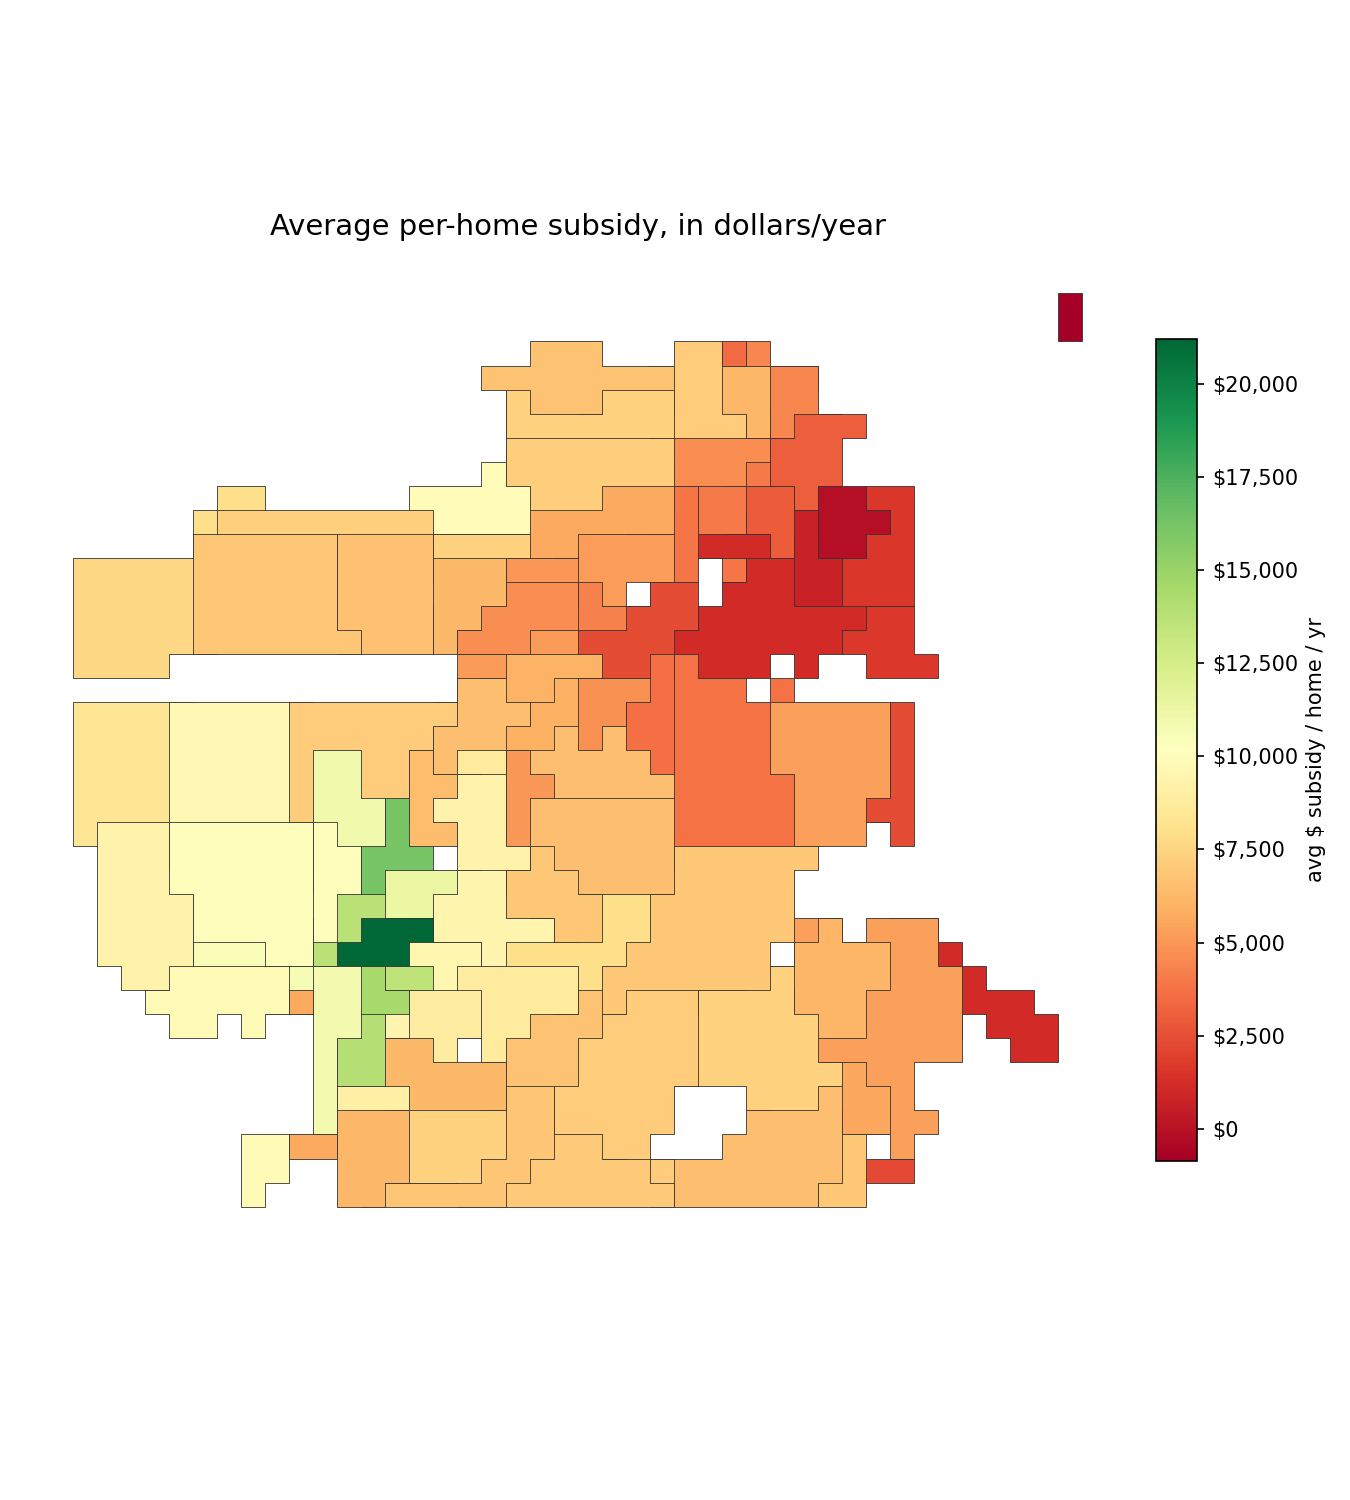
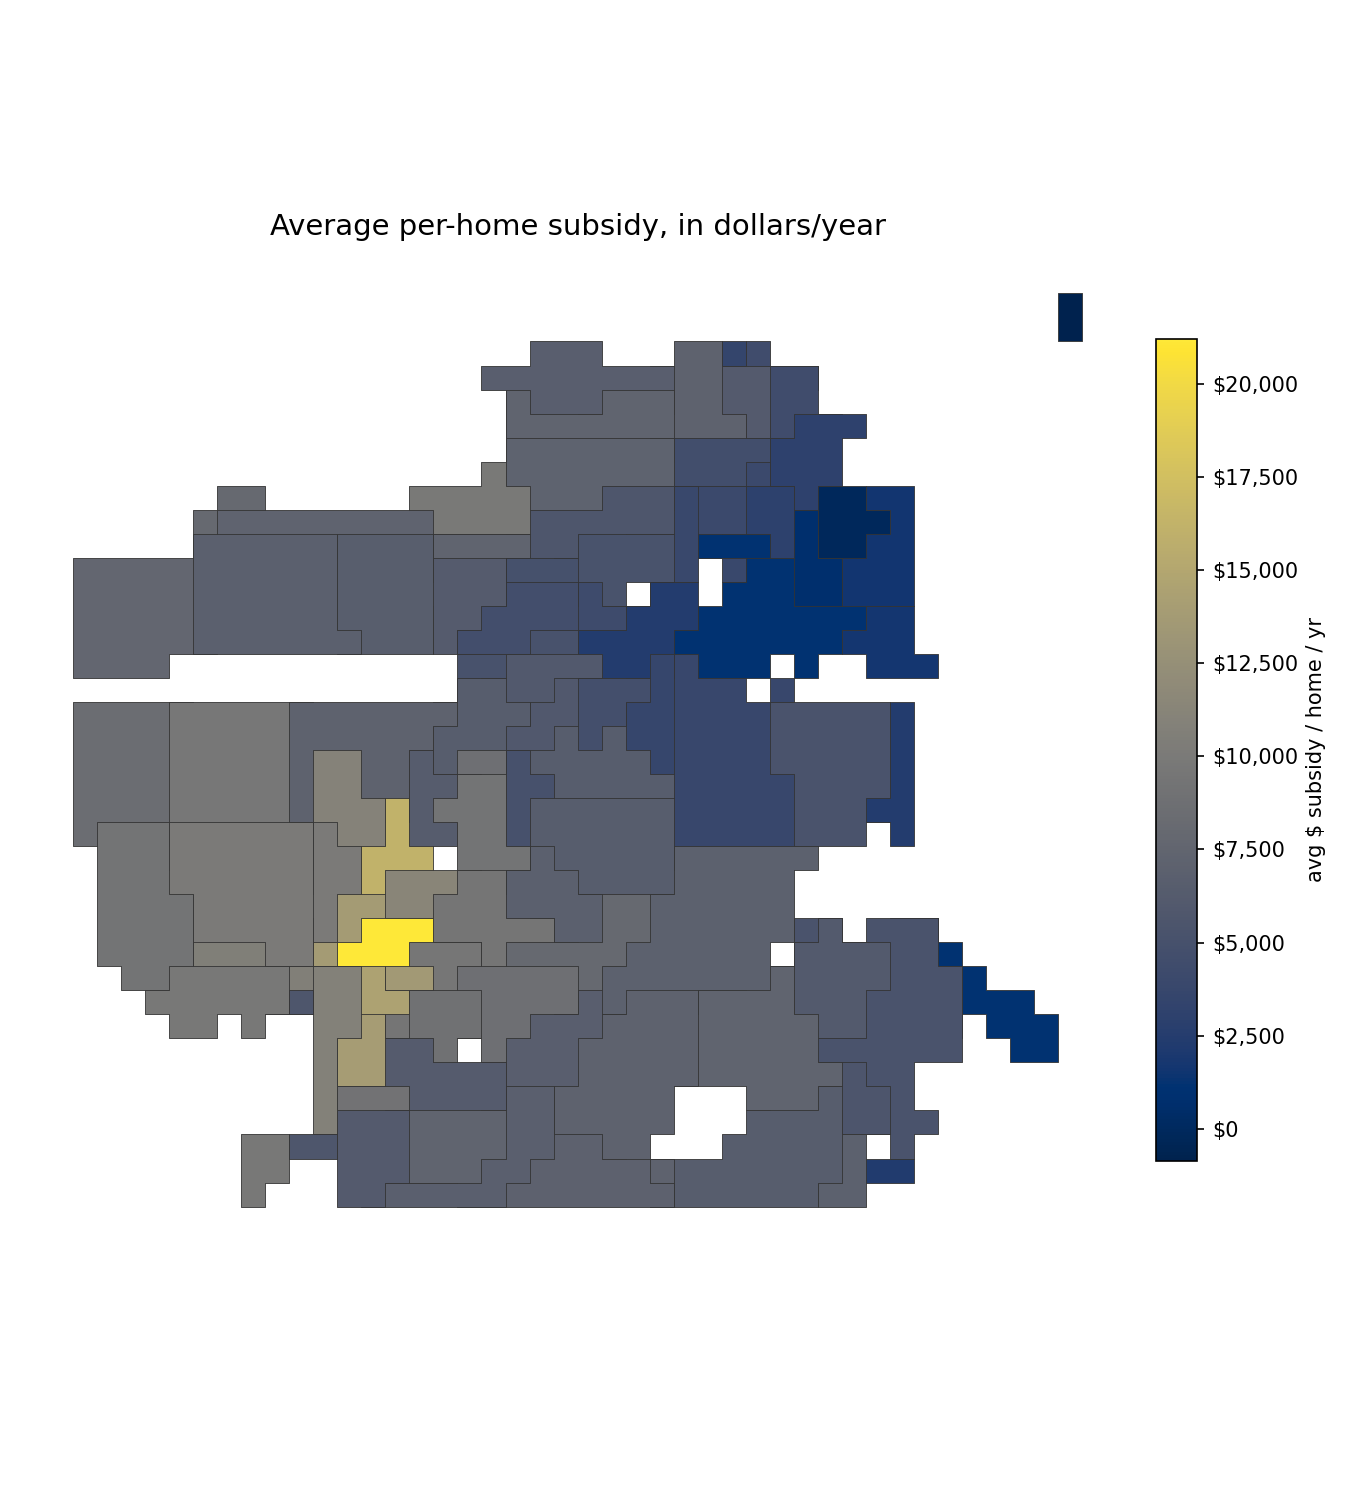
Use colorblind-safe palette for neighborhood subsidy maps
Swap RdYlGn for cividis (perceptually uniform, designed to be
readable with red-green color vision deficiency) on both choropleths.

Changed region(s): [[0.0311, 0.2147, 0.8089, 0.828], [0.84, 0.2147, 0.9022, 0.7973], [0.7778, 0.184, 0.8089, 0.2453]]

diff --git a/pipeline/11_neighborhood_subsidy_stats.py b/pipeline/11_neighborhood_subsidy_stats.py
@@ -181,7 +181,7 @@ draw_choropleth(
     "Average per-home subsidy, as % of market value's fair-share tax",
     "avg % subsidy",
     OUT_DIR / "neighborhood_pct_subsidy_map.png",
-    "RdYlGn",
+    "cividis",
     lambda v, _: f"{v:.0f}%",
 )
 draw_choropleth(
@@ -189,6 +189,6 @@ draw_choropleth(
     "Average per-home subsidy, in dollars/year",
     "avg $ subsidy / home / yr",
     OUT_DIR / "neighborhood_dollar_subsidy_map.png",
-    "RdYlGn",
+    "cividis",
     lambda v, _: f"${v:,.0f}",
 )
